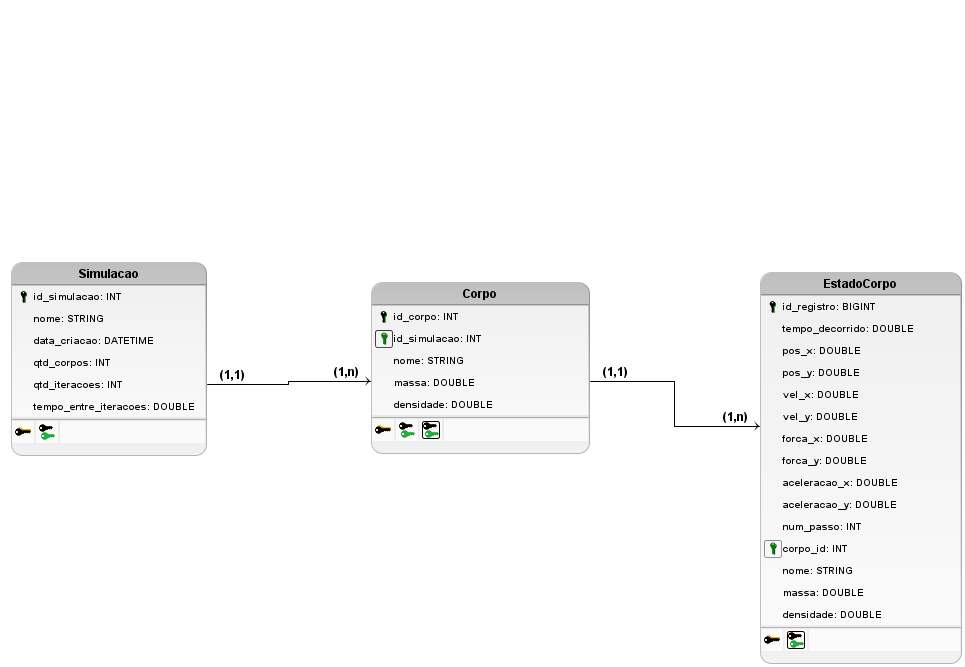
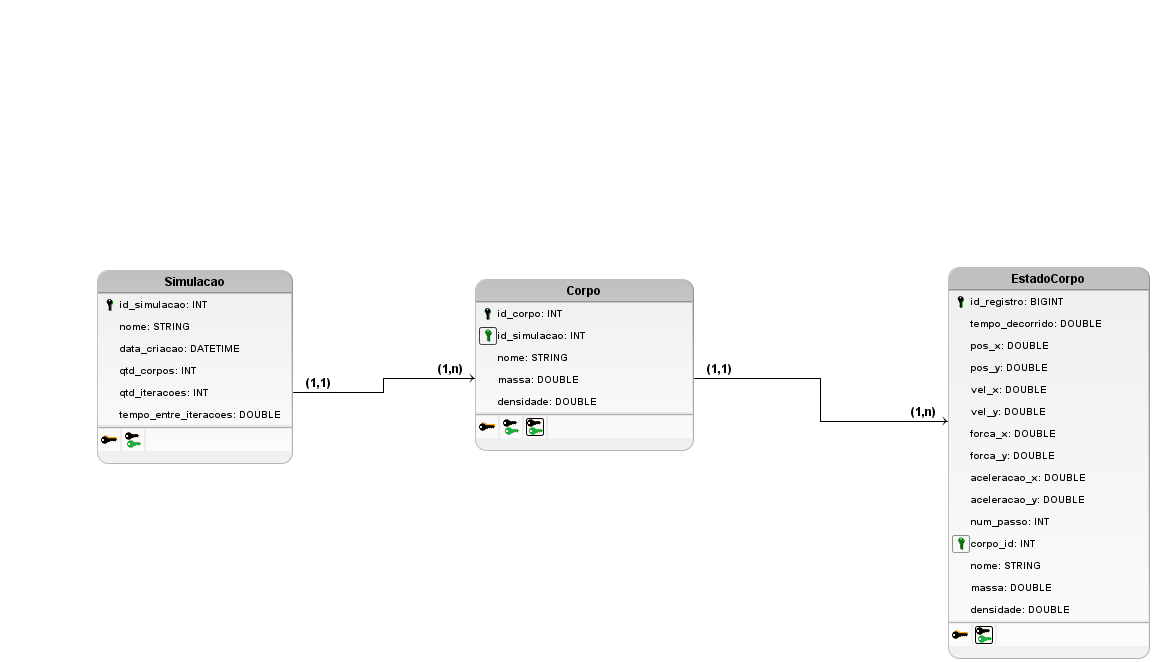
Pequenas alterações nos arquivos de modelagem.

diff --git a/04 - CÓDIGO FINAL/SimuladorGravitacional-N2-Web/Universo.cs b/04 - CÓDIGO FINAL/SimuladorGravitacional-N2-Web/Universo.cs
@@ -224,6 +224,7 @@ public class Universo
         Corpos.RemoveAll(absorvidos.Contains);
     }
 
+    /* Parte do código focado em fusão */ 
     private static void Fundir(Corpo a, Corpo b)
     {
         double massa = a.Massa + b.Massa;
